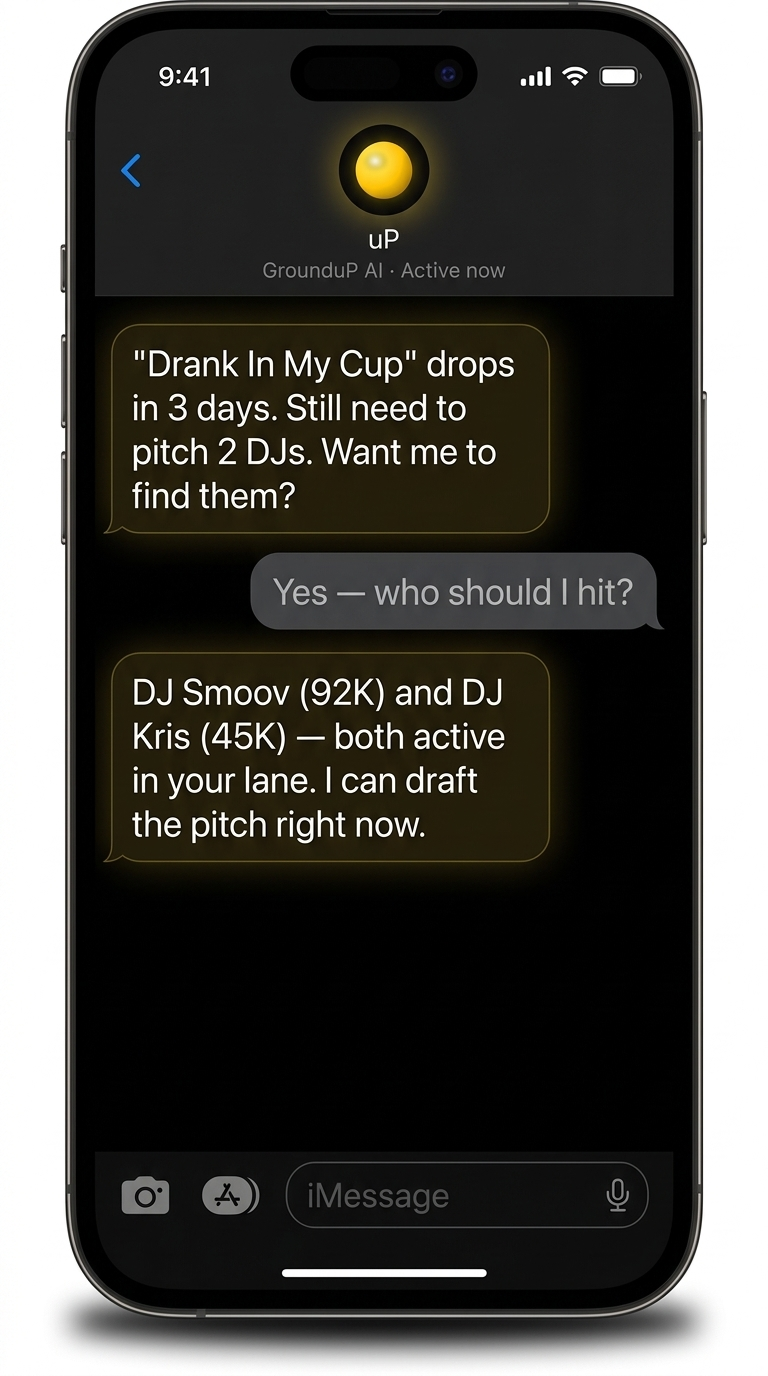
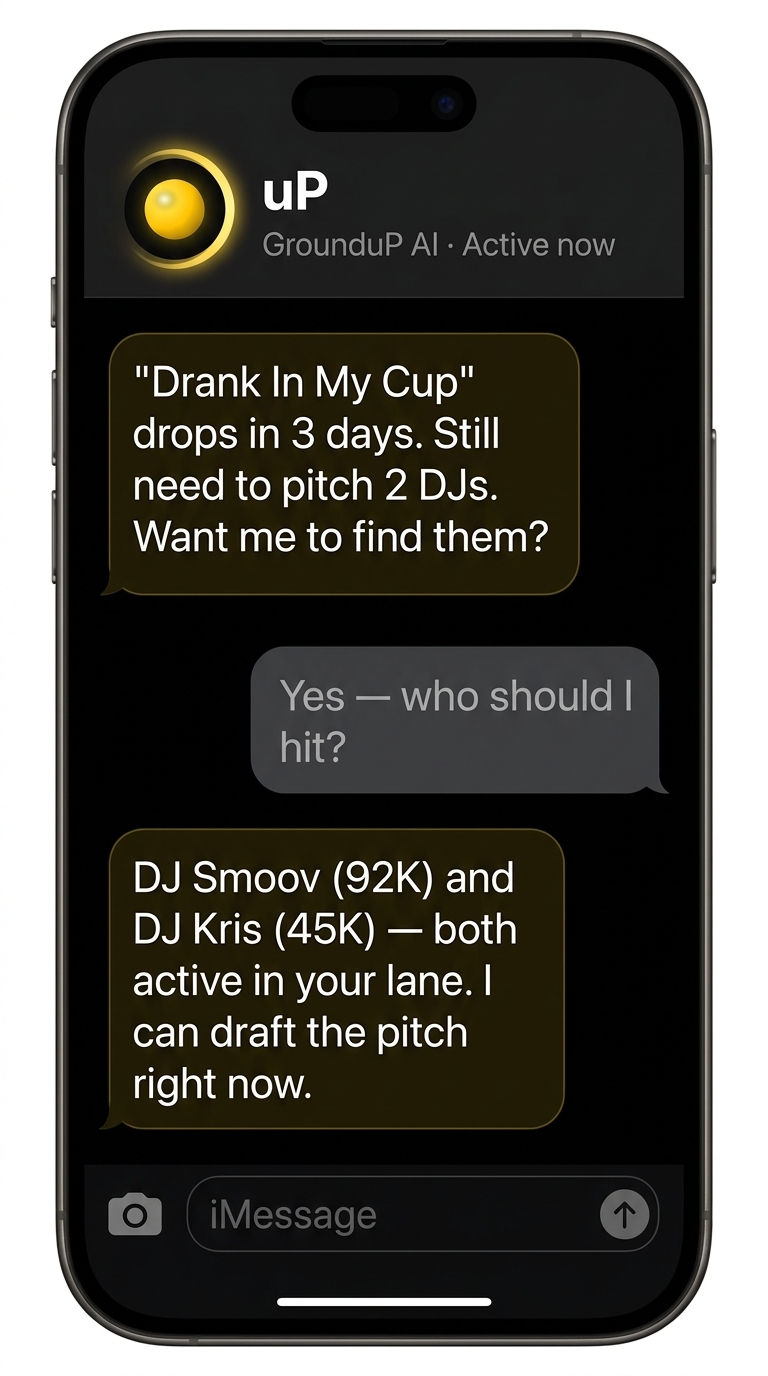
/app page: white/silver bg, scroll-reveal iPhone, orb+halo screenshot; webhook intro for new users
- AppPage: warm off-white bg, conversion-optimized layout with social proof
  quotes, scroll-triggered iPhone reveal (framer-motion parallax + rotateX),
  hover 3D tilt, feature chips, double CTA
- iMessage preview: regenerated with tight phone crop + orb+halo contact avatar
- blooio-webhook: replace dead-end "I don't recognize you" with warm uP intro
  message + groundupapp.com signup CTA for unknown numbers texting in

diff --git a/src/pages/AppPage.tsx b/src/pages/AppPage.tsx
@@ -1,93 +1,156 @@
-import { motion } from 'framer-motion';
+import { useRef } from 'react';
+import { motion, useScroll, useTransform, useInView } from 'framer-motion';
 
 const IMESSAGE_LINK = 'https://start.msg.new/EEHfxKYWDk';
 
-const CHIPS = ['💬 iMessage AI', '🎵 Release Planning', '🎯 Curator Matching'];
+const CHIPS = [
+  { icon: '💬', label: 'iMessage AI' },
+  { icon: '🎵', label: 'Release Planning' },
+  { icon: '🎯', label: 'Curator Matching' },
+  { icon: '📊', label: 'Career Strategy' },
+];
+
+const SOCIAL_PROOF = [
+  '"uP knew my drop date before I did."',
+  '"Like having a manager in my pocket."',
+  '"Pitched 3 curators in one convo."',
+];
 
 export function AppPage() {
+  const phoneRef = useRef<HTMLDivElement>(null);
+  const phoneInView = useInView(phoneRef, { once: true, margin: '-80px' });
+
+  const { scrollYProgress } = useScroll({
+    target: phoneRef,
+    offset: ['start end', 'center center'],
+  });
+  const phoneY      = useTransform(scrollYProgress, [0, 1], [60, 0]);
+  const phoneOpacity = useTransform(scrollYProgress, [0, 0.5], [0, 1]);
+  const phoneRotate  = useTransform(scrollYProgress, [0, 1], [8, 0]);
+
   return (
-    <div className="min-h-screen bg-black text-white font-sans overflow-x-hidden">
-      {/* Background glows */}
+    <div className="min-h-screen font-sans overflow-x-hidden" style={{ background: '#F7F6F2' }}>
+
+      {/* Subtle top glow */}
       <div className="fixed inset-0 pointer-events-none">
-        <div className="absolute top-[-10%] left-[-10%] w-[60%] h-[60%] bg-[#FFD700]/8 blur-[140px] rounded-full" />
-        <div className="absolute bottom-[-10%] right-[-10%] w-[50%] h-[50%] bg-[#FFD700]/5 blur-[120px] rounded-full" />
+        <div className="absolute top-0 left-1/2 -translate-x-1/2 w-[80%] h-[40%] bg-[#FFD700]/10 blur-[100px] rounded-full" />
       </div>
 
-      {/* Nav */}
-      <nav className="relative z-10 flex items-center justify-between px-6 py-5 max-w-4xl mx-auto">
+      {/* ── Nav ─────────────────────────────────────────────────────────── */}
+      <nav className="relative z-10 flex items-center justify-between px-6 py-5 max-w-2xl mx-auto">
         <a href="/">
-          <img src="/logo.webp" alt="GrounduP" className="h-10" />
+          <img src="/logo.webp" alt="GrounduP" className="h-9" />
         </a>
         <a
           href="/login"
-          className="text-white/40 hover:text-white text-[10px] font-black uppercase tracking-widest transition-colors"
+          className="text-zinc-400 hover:text-zinc-800 text-[10px] font-black uppercase tracking-widest transition-colors"
         >
           Sign In
         </a>
       </nav>
 
-      {/* Main content */}
-      <main className="relative z-10 flex flex-col items-center justify-center px-6 pt-8 pb-24 max-w-lg mx-auto text-center">
+      {/* ── Hero ────────────────────────────────────────────────────────── */}
+      <main className="relative z-10 flex flex-col items-center px-6 pt-4 pb-24 max-w-lg mx-auto text-center">
         <motion.div
-          initial={{ opacity: 0, y: 20 }}
+          initial={{ opacity: 0, y: 18 }}
           animate={{ opacity: 1, y: 0 }}
-          transition={{ duration: 0.5, ease: 'easeOut' }}
-          className="flex flex-col items-center gap-5 w-full"
+          transition={{ duration: 0.55, ease: 'easeOut' }}
+          className="flex flex-col items-center gap-4 w-full"
         >
           {/* Eyebrow */}
-          <div className="px-3 py-1.5 rounded-full bg-[#FFD700]/10 border border-[#FFD700]/25">
-            <span className="text-[#FFD700] text-[10px] font-black uppercase tracking-[0.2em]">
-              GrounduP Artist OS
-            </span>
+          <div
+            className="px-3.5 py-1.5 rounded-full border text-[10px] font-black uppercase tracking-[0.2em]"
+            style={{ background: 'rgba(255,215,0,0.12)', borderColor: 'rgba(255,215,0,0.3)', color: '#8A6800' }}
+          >
+            GrounduP Artist OS
           </div>
 
           {/* Headline */}
-          <h1 className="text-4xl md:text-5xl font-black tracking-tighter leading-[1.1]">
+          <h1 className="text-[2.6rem] md:text-5xl font-black tracking-tighter leading-[1.05] text-zinc-900">
             Your career,<br />
-            <span className="text-white/50">in your messages.</span>
+            <span className="text-zinc-400">in your messages.</span>
           </h1>
 
           {/* Sub-copy */}
-          <p className="text-white/40 text-[15px] leading-relaxed max-w-xs">
+          <p className="text-zinc-500 text-[15px] leading-relaxed max-w-xs">
             uP is your personal music career AI — strategy, releases, and curator connections, all through iMessage.
           </p>
 
-          {/* Mock conversation — AI-generated iPhone screenshot */}
-          <div className="w-full mt-2 flex justify-center">
-            <img
-              src="/up-imessage-preview.png"
-              alt="uP iMessage conversation preview"
-              className="w-56 rounded-[2rem] shadow-[0_24px_80px_rgba(0,0,0,0.7)]"
-              draggable={false}
-            />
-          </div>
-
-          {/* Feature chips */}
-          <div className="flex flex-wrap justify-center gap-2 mt-1">
-            {CHIPS.map((chip) => (
-              <div
-                key={chip}
-                className="px-3.5 py-1.5 rounded-full bg-white/5 border border-white/10 text-white/50 text-[12px] font-semibold"
+          {/* Social proof */}
+          <div className="flex flex-col gap-1 w-full mt-1">
+            {SOCIAL_PROOF.map((q, i) => (
+              <motion.p
+                key={i}
+                initial={{ opacity: 0, x: -10 }}
+                animate={{ opacity: 1, x: 0 }}
+                transition={{ delay: 0.3 + i * 0.1, duration: 0.4 }}
+                className="text-zinc-400 text-[12px] font-medium italic"
               >
-                {chip}
-              </div>
+                {q}
+              </motion.p>
             ))}
           </div>
 
-          {/* CTA */}
+          {/* ── CTA ──────────────────────────────────────────────────────── */}
           <a
             href={IMESSAGE_LINK}
-            className="w-full mt-2 h-14 rounded-2xl bg-[#FFD700] text-black font-black text-[15px] tracking-wide flex items-center justify-center gap-2 hover:scale-[1.02] active:scale-[0.98] transition-transform shadow-[0_0_40px_rgba(255,215,0,0.25)]"
+            className="w-full mt-2 h-14 rounded-2xl font-black text-[15px] tracking-wide flex items-center justify-center gap-2.5 transition-transform hover:scale-[1.02] active:scale-[0.98]"
+            style={{
+              background: '#FFD700',
+              color: '#000',
+              boxShadow: '0 4px 30px rgba(255,215,0,0.35), 0 1px 0 rgba(255,255,255,0.4) inset',
+            }}
           >
             <svg width="18" height="18" viewBox="0 0 24 24" fill="currentColor">
               <path d="M20 2H4C2.9 2 2 2.9 2 4v18l4-4h14c1.1 0 2-.9 2-2V4c0-1.1-.9-2-2-2zm0 12H6l-2 2V4h16v10z"/>
             </svg>
-            Text uP on iMessage
+            Text uP — Start Free
           </a>
-
-          <p className="text-white/20 text-[11px] font-medium -mt-2">
-            Opens iMessage · Free to start
+          <p className="text-zinc-400 text-[11px] font-medium -mt-2">
+            Opens iMessage · No app download needed
           </p>
+
+          {/* ── iPhone scroll reveal ─────────────────────────────────────── */}
+          <div ref={phoneRef} className="w-full mt-6 flex justify-center perspective-[1200px]">
+            <motion.div
+              style={{ y: phoneY, opacity: phoneOpacity, rotateX: phoneRotate }}
+              whileHover={{ scale: 1.03, rotateY: 4, rotateX: -2, transition: { type: 'spring', stiffness: 250, damping: 25 } }}
+              className="cursor-pointer"
+            >
+              <motion.img
+                src="/up-imessage-preview.png"
+                alt="uP iMessage conversation"
+                className="w-60 rounded-[2.5rem] select-none"
+                style={{
+                  boxShadow: '0 32px 80px rgba(0,0,0,0.22), 0 8px 24px rgba(0,0,0,0.12)',
+                }}
+                draggable={false}
+                animate={phoneInView ? { opacity: 1 } : { opacity: 0 }}
+              />
+            </motion.div>
+          </div>
+
+          {/* Feature chips */}
+          <div className="flex flex-wrap justify-center gap-2 mt-4">
+            {CHIPS.map((c) => (
+              <div
+                key={c.label}
+                className="px-3.5 py-1.5 rounded-full text-[12px] font-semibold text-zinc-600 border border-zinc-200 bg-white"
+                style={{ boxShadow: '0 1px 4px rgba(0,0,0,0.06)' }}
+              >
+                {c.icon} {c.label}
+              </div>
+            ))}
+          </div>
+
+          {/* Bottom CTA repeat */}
+          <a
+            href={IMESSAGE_LINK}
+            className="mt-4 text-[13px] font-black uppercase tracking-widest transition-colors"
+            style={{ color: '#B8860B' }}
+          >
+            Get started for free →
+          </a>
         </motion.div>
       </main>
     </div>

diff --git a/netlify/functions/blooio-webhook.ts b/netlify/functions/blooio-webhook.ts
@@ -237,8 +237,11 @@ export const handler: Handler = async (event) => {
       .limit(20)
     console.log('[blooio-webhook] No match. All stored phones:', JSON.stringify(allPhones))
 
-    await sendBlooio(fromPhone, "Hey! I don't recognize this number. Log into your GrounduP account and connect your phone under Profile to chat with uP 🎵")
-    return { statusCode: 200, body: 'Unknown number' }
+    // New user texting in from /app page — warm intro + guide to sign up
+    await sendBlooio(fromPhone,
+      `Hey 👋 I'm uP — your GrounduP AI music career assistant.\n\nI help artists with release strategy, curator matching, and career planning — all through iMessage.\n\nCreate your free account at groundupapp.com to connect your number and get the full experience. Takes 2 minutes 🎵`
+    )
+    return { statusCode: 200, body: 'Unknown number — intro sent' }
   }
 
   const userId = profile.user_id
